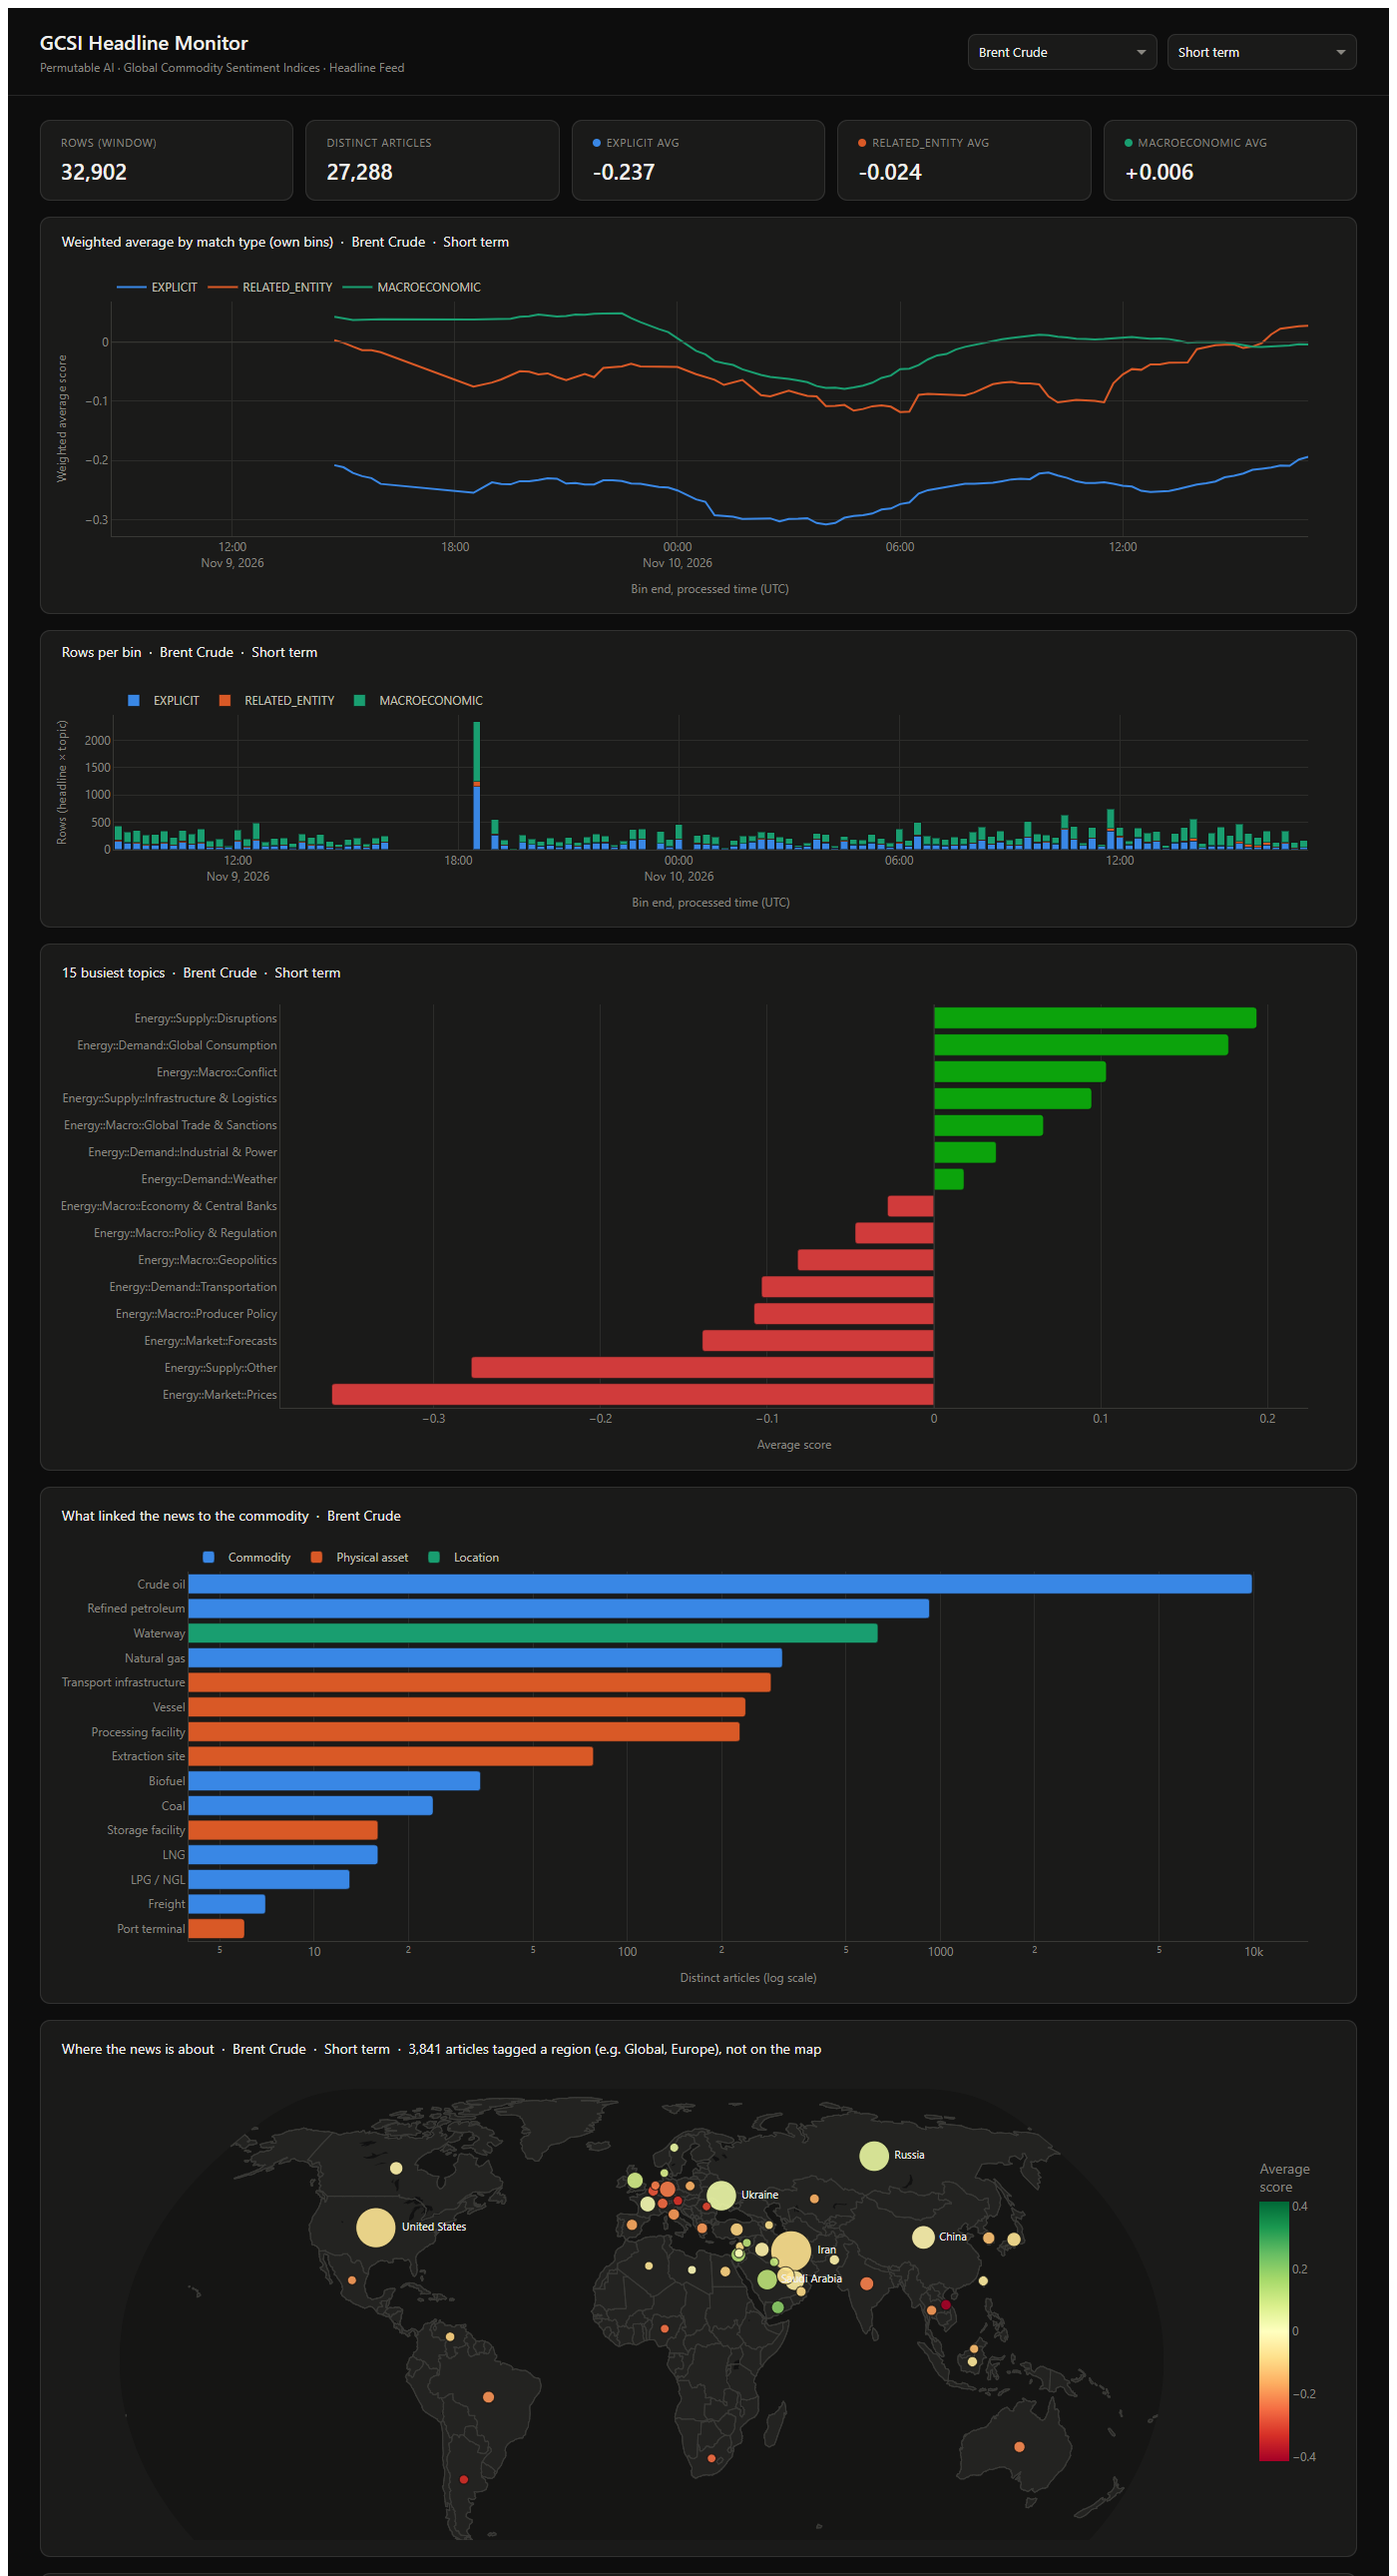
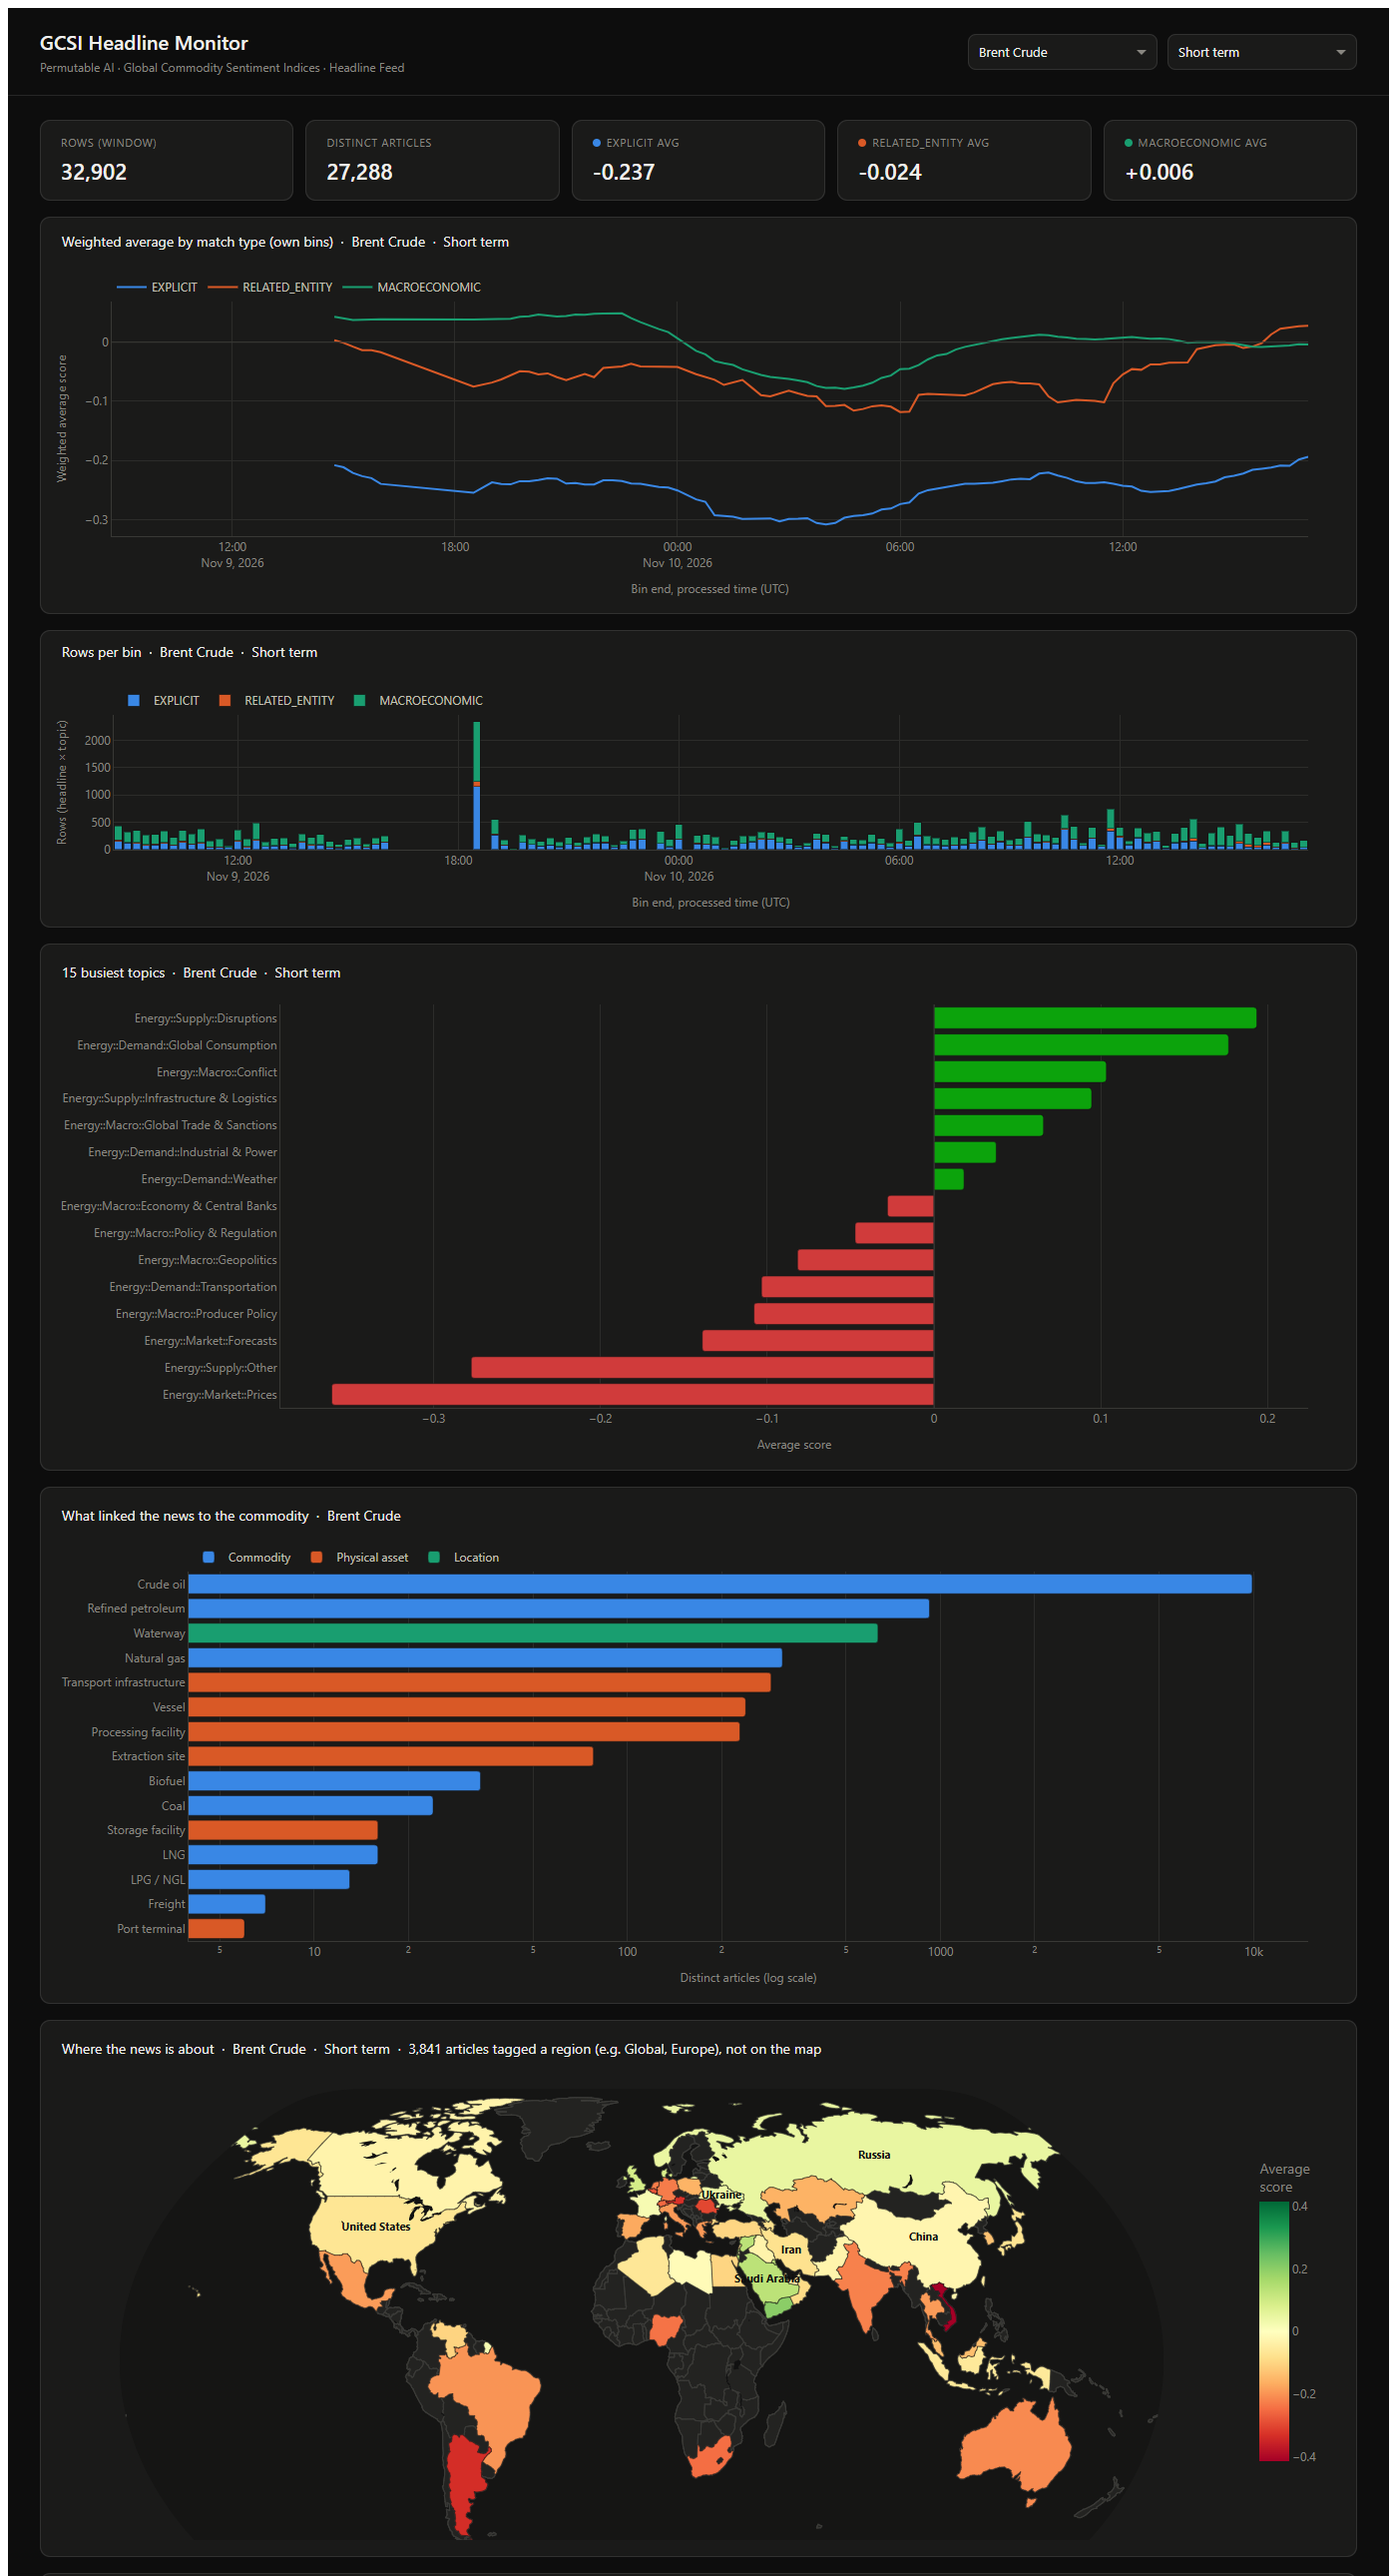
GCSI headline app: fill countries on the map instead of bubbles

diff --git a/systematic/global_commodity_sentiment/app/live_headline_polling/dashboard/app.py b/systematic/global_commodity_sentiment/app/live_headline_polling/dashboard/app.py
@@ -181,11 +181,11 @@ def _build_entity_types(types: pd.DataFrame, title: str) -> go.Figure:
     return fig
 
 
-def _build_country_map(countries: pd.DataFrame, title: str, labels: int = 6) -> go.Figure:
-    """One bubble per country the news is about: size = distinct articles, colour = average score.
+def _build_country_map(countries: pd.DataFrame, title: str, labels: int = 6, min_articles: int = 10) -> go.Figure:
+    """Each country the news is about, filled by its average score; article counts and entity types on hover.
 
-    Bubbles sit on each country's centroid (ISO-3), and the busiest are labelled. Regions such as Global or Europe
-    are left off the map and counted in the title.
+    Countries with fewer than `min_articles` articles are filled grey, since a handful of headlines gives a noisy
+    average. Regions such as Global or Europe are left off the map and counted in the title.
     """
     if countries.empty:
         return _empty_fig(height=520)
@@ -197,22 +197,33 @@ def _build_country_map(countries: pd.DataFrame, title: str, labels: int = 6) -> 
         return _empty_fig("No country tags in the window", height=520)
     mapped["types"] = mapped["top_entity_types"].apply(
         lambda types: "<br>".join(f"{_type_label(t['entity_type'])}: {t['articles']:,}" for t in types) or "n/a")
-    limit = max(mapped["sentiment_avg"].abs().max(), 0.05)
-    # Short label for the busiest countries ("Iran, Islamic Republic of" → "Iran"); markers+text keeps it off the bubble
-    names = mapped["country"].str.split(",").str[0].str.replace("Russian Federation", "Russia")
-    text = [name if i < labels else "" for i, name in enumerate(names)]
-    fig = go.Figure(go.Scattergeo(
-        locations=mapped["iso3"], locationmode="ISO-3", mode="markers+text", text=text,
-        textposition="middle right", textfont=dict(size=11, color=INK),
-        customdata=mapped[["country", "articles", "sentiment_avg", "types"]],
-        hovertemplate="<b>%{customdata[0]}</b><br>%{customdata[1]:,} articles<br>Average %{customdata[2]:+.3f}"
-                      "<br><br>Linked by<br>%{customdata[3]}<extra></extra>",
-        marker=dict(size=7 + 34 * (mapped["articles"] / mapped["articles"].max()) ** 0.5,
-                    color=mapped["sentiment_avg"], colorscale="RdYlGn", cmin=-limit, cmax=limit,
-                    line=dict(width=0.8, color=PAGE), opacity=0.9,
-                    colorbar=dict(title=dict(text="Average<br>score", font=dict(color=MUTED)), len=0.7,
-                                  tickfont=dict(color=MUTED), outlinewidth=0)),
+    hover = ("<b>%{customdata[0]}</b><br>%{customdata[1]:,} articles<br>Average %{customdata[2]:+.3f}"
+             "<br><br>Linked by<br>%{customdata[3]}<extra></extra>")
+    fields = ["country", "articles", "sentiment_avg", "types"]
+    scored, sparse = mapped[mapped["articles"] >= min_articles], mapped[mapped["articles"] < min_articles]
+    limit = max(scored["sentiment_avg"].abs().max(), 0.05) if not scored.empty else 0.05
+    fig = go.Figure()
+    fig.add_trace(go.Choropleth(
+        locations=sparse["iso3"], locationmode="ISO-3", z=[0] * len(sparse), customdata=sparse[fields],
+        colorscale=[[0, "#4a4a46"], [1, "#4a4a46"]], showscale=False, hovertemplate=hover,
+        marker_line=dict(color=PAGE, width=0.5),
     ))
+    fig.add_trace(go.Choropleth(
+        locations=scored["iso3"], locationmode="ISO-3", z=scored["sentiment_avg"], customdata=scored[fields],
+        colorscale="RdYlGn", zmin=-limit, zmax=limit, hovertemplate=hover, marker_line=dict(color=PAGE, width=0.5),
+        colorbar=dict(title=dict(text="Average<br>score", font=dict(color=MUTED)), len=0.7,
+                      tickfont=dict(color=MUTED), outlinewidth=0),
+    ))
+    # Name the busiest countries ("Iran, Islamic Republic of" → "Iran") on their centroids
+    busiest = mapped.head(labels)
+    fig.add_trace(go.Scattergeo(
+        locations=busiest["iso3"], locationmode="ISO-3", mode="text", hoverinfo="skip",
+        text="<b>" + busiest["country"].str.split(",").str[0].str.replace("Russian Federation", "Russia") + "</b>",
+        textfont=dict(size=11, color=PAGE, family=FONT),
+    ))
+    if not sparse.empty:
+        fig.add_annotation(text=f"Grey: fewer than {min_articles} articles", xref="paper", yref="paper", x=0.01,
+                           y=0.02, showarrow=False, font=dict(size=11, color=MUTED))
     _style(fig, title, 520, legend=False)
     fig.update_geos(projection_type="natural earth", bgcolor=SURFACE, showframe=False,
                     showland=True, landcolor="#232321", showocean=True, oceancolor="#151514",

diff --git a/systematic/global_commodity_sentiment/app/live_headline_polling/README.md b/systematic/global_commodity_sentiment/app/live_headline_polling/README.md
@@ -117,7 +117,7 @@ curl "http://localhost:8000/headlines?ticker=BZ_COM&sort=strongest&limit=10"
 - **Rows per bin**, stacked by match type
 - **Topics:** the 15 busiest topics
 - **Entity types:** what linked the news to the commodity, as distinct articles per matched entity type, coloured by family (commodity, physical asset, location, policy instrument)
-- **Country map:** one bubble per country the news is about, sized by distinct articles and coloured by average score; hover for the entity types behind it. Regions such as Global or Europe are counted in the title rather than mapped
+- **Country map:** each country the news is about, filled by its average score (grey under 10 articles); hover for the article count and the entity types behind it. Regions such as Global or Europe are counted in the title rather than mapped
 - **Strongest headlines** of the last 6 hours, for drill-down
 
 ---
